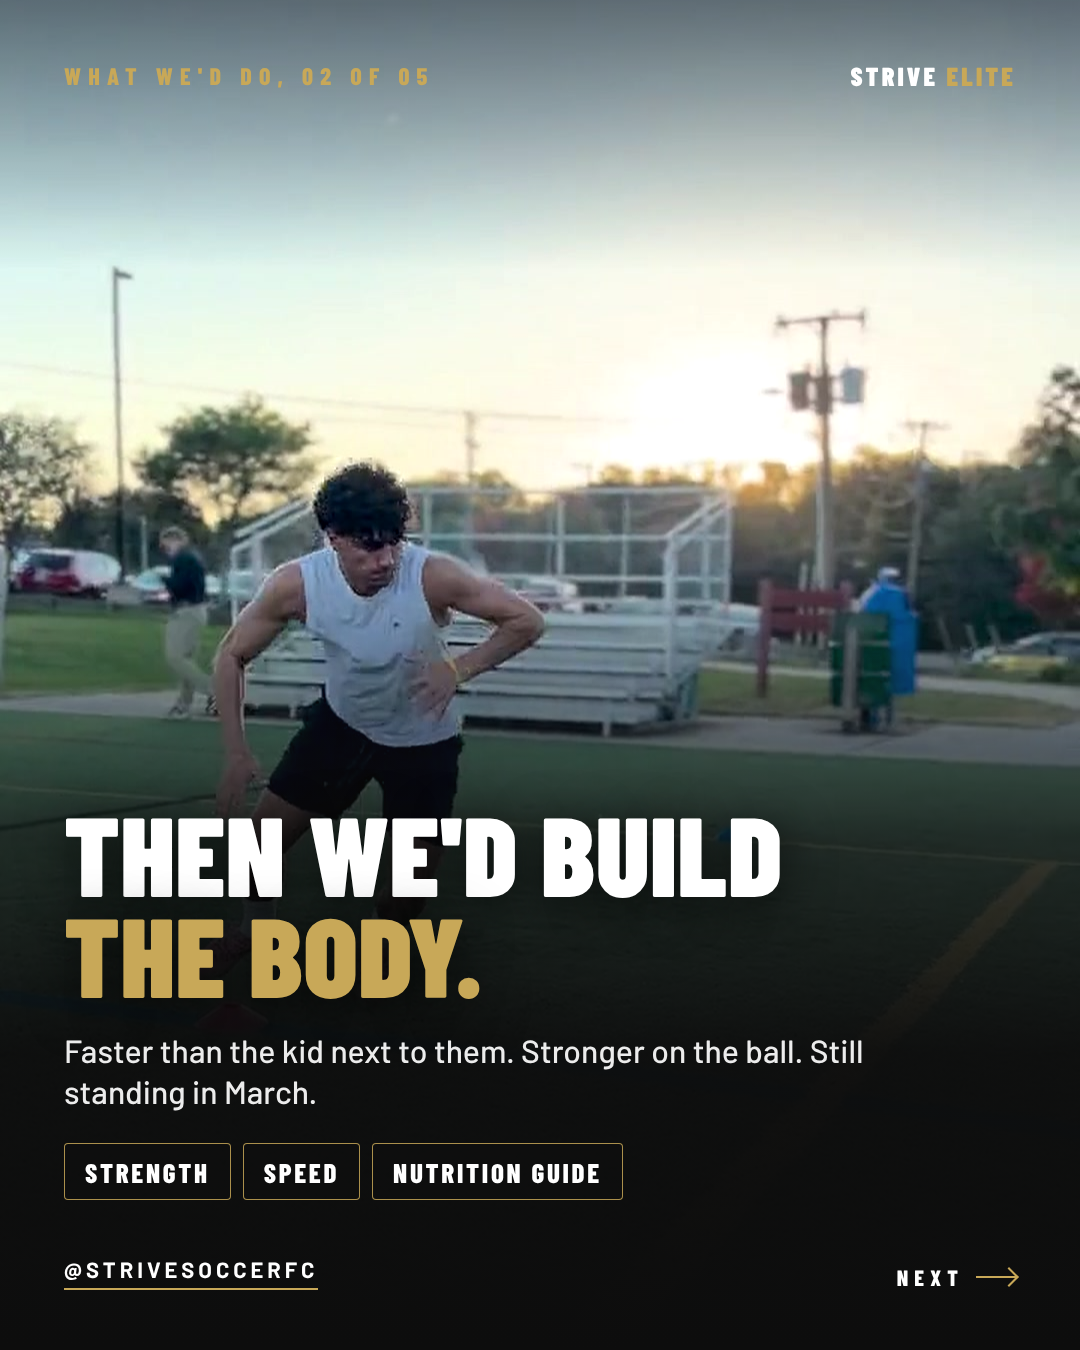
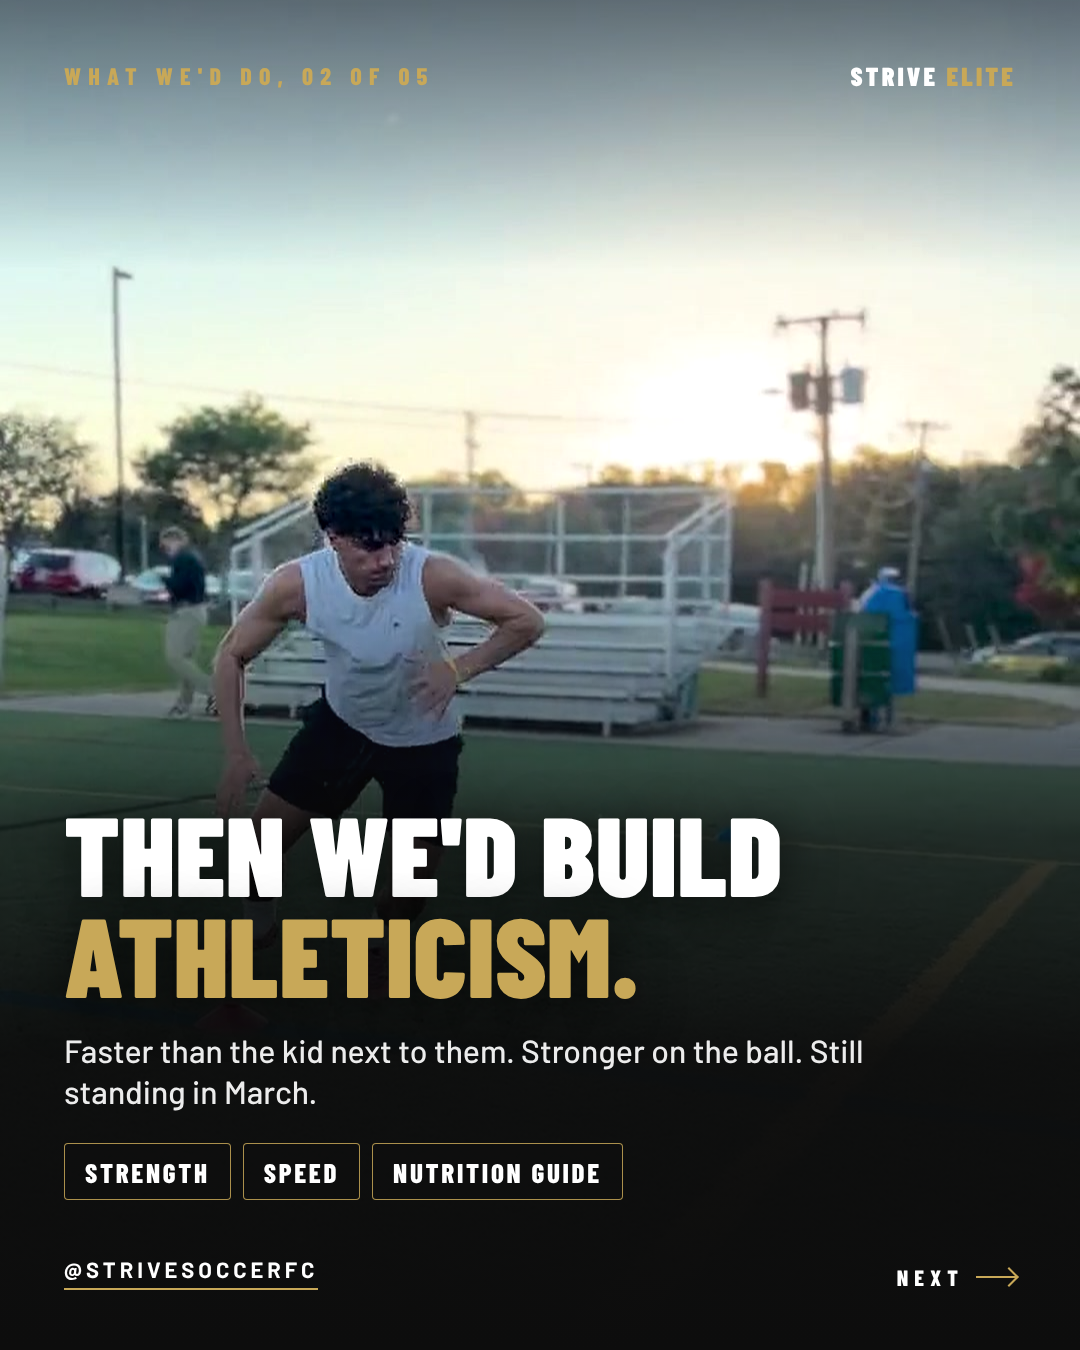
Offer carousel: week outside team training with the hours math, athleticism
Claude-Session: https://claude.ai/code/session_011JsCTTjCbUkHbTuWTKQSXJ

Changed region(s): [[0.0611, 0.6533, 0.6111, 0.7467]]

diff --git a/marketing/announcement/offer-post/step1.html b/marketing/announcement/offer-post/step1.html
@@ -28,5 +28,5 @@ h1 span{color:#c8a858}
 </style>
 <div class="ph"></div><div class="sh"></div>
 <div class="top"><div class="step">What we'd do, 01 of 05</div><div class="wm">Strive <span>Elite</span></div></div>
-<div class="txt"><h1>First, we'd build<br>their week <span>ourselves.</span></h1><p class="p">A week built around one player, not fifteen. Every Monday it goes after the exact thing holding them back.</p><div class="chips"><span>The week, every Monday</span><span>Extra Work</span><span>Pick up where you left off</span></div></div>
+<div class="txt"><h1 style="font-size:100px">First, we'd build<br>their week <span>outside team training.</span></h1><p class="p">Personalized sessions, built for one player, so they get ahead on the days the team is off. Four extra hours a week is 52 hours in three months that the kid next to them never put in.</p><div class="chips"><span>The week, every Monday</span><span>Extra Work</span><span>Pick up where you left off</span></div></div>
 <div class="handle">@strivesoccerfc</div><div class="swipe">Next <i></i></div>

diff --git a/marketing/announcement/offer-post/step2.html b/marketing/announcement/offer-post/step2.html
@@ -28,5 +28,5 @@ h1 span{color:#c8a858}
 </style>
 <div class="ph"></div><div class="sh"></div>
 <div class="top"><div class="step">What we'd do, 02 of 05</div><div class="wm">Strive <span>Elite</span></div></div>
-<div class="txt"><h1>Then we'd build<br><span>the body.</span></h1><p class="p">Faster than the kid next to them. Stronger on the ball. Still standing in March.</p><div class="chips"><span>Strength</span><span>Speed</span><span>Nutrition Guide</span></div></div>
+<div class="txt"><h1>Then we'd build<br><span>athleticism.</span></h1><p class="p">Faster than the kid next to them. Stronger on the ball. Still standing in March.</p><div class="chips"><span>Strength</span><span>Speed</span><span>Nutrition Guide</span></div></div>
 <div class="handle">@strivesoccerfc</div><div class="swipe">Next <i></i></div>

diff --git a/CLAUDE.md b/CLAUDE.md
@@ -3278,6 +3278,18 @@ commit.
       player ready when the moment comes. We never promise a roster
       spot. We make them impossible to ignore." He will send a big
       group session or camp photo for the recap or the close. Sent.
+      THEN (Coach Yinka: "Instead of the body, athleticism. For their
+      week, it's their week outside of team training. Explain how
+      personalized sessions for them to get ahead then do quick math
+      for if they train an extra 4 hours a week than players their
+      age, how much that is after 3 months"): step 2 headline is "Then
+      we'd build ATHLETICISM."; step 1 headline is "First, we'd build
+      their week OUTSIDE TEAM TRAINING." with the line "Personalized
+      sessions, built for one player, so they get ahead on the days the
+      team is off. Four extra hours a week is 52 hours in three months
+      that the kid next to them never put in." (4 h x 13 weeks; the
+      four hours is his figure, the off-season six-session week comes
+      to about four hours, in season about 2.7). Sent.
 
 ## Growth target (stamped Sept 19, Coach Yinka's own call)
 
